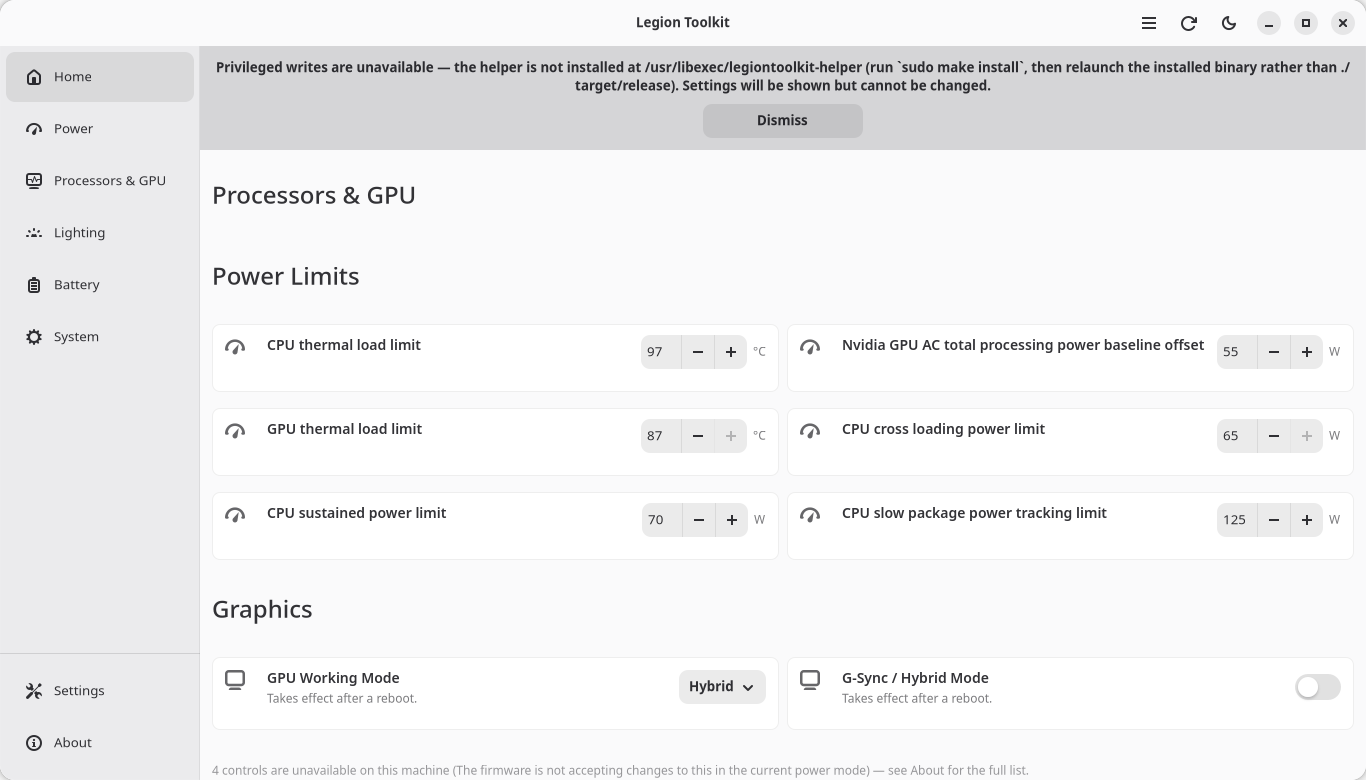
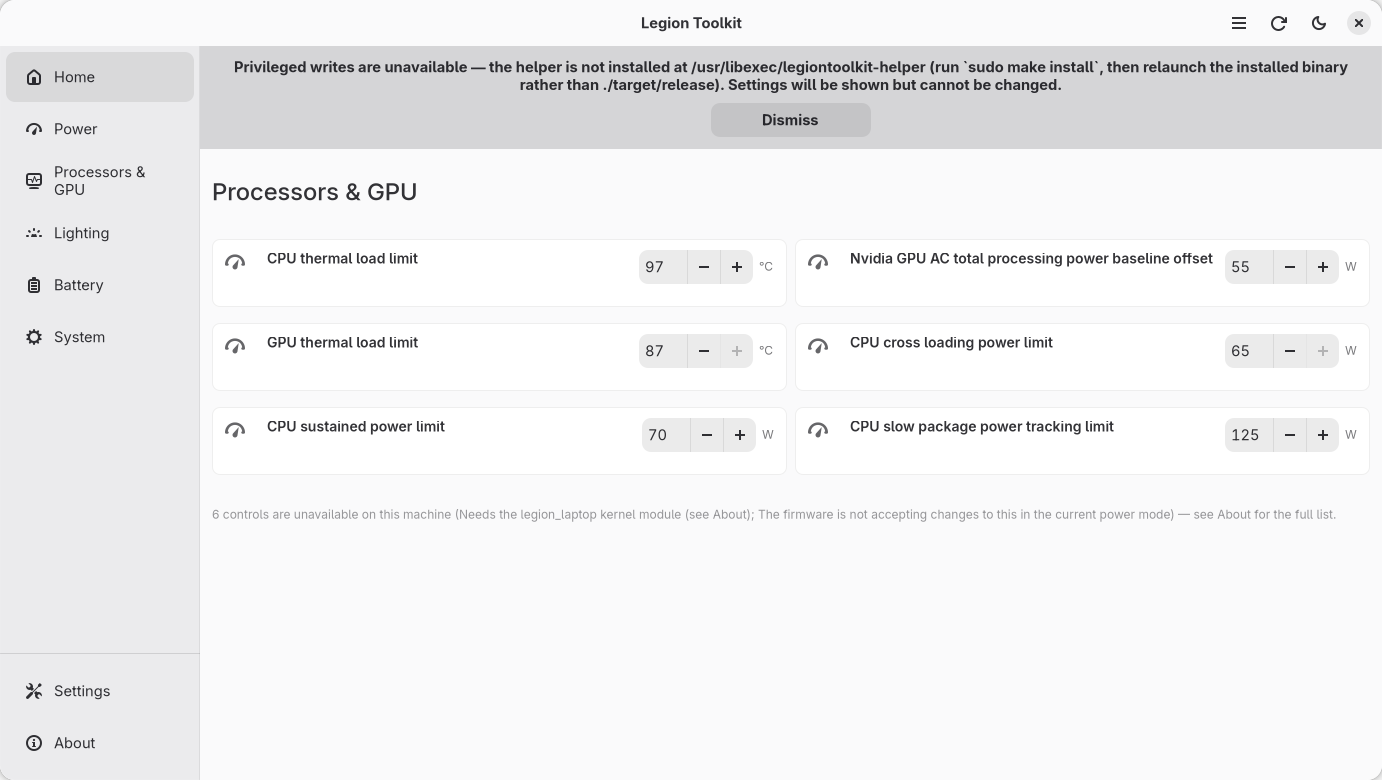
feat(lighting): animate the effect preview, and tidy the pages
Lighting: a timer now animates the keyboard while an effect is selected, so a
look can be seen before it is applied. The rainbow effects run a spectrum across
the board; the colour-carrying effects pulse their zone colour along the same
wave. It paints only while the page is on screen and the effect moves.

About: the affiliation note now follows the build note in the same line instead
of dangling below it.

Pages: a section title is drawn only when a page has more than one section, so
Processors & GPU no longer repeats itself with a lone 'Power Limits' heading.

Controls: the spin buttons and dropdowns get a fixed width, so a value gaining
a digit no longer shifts the card's layout.

Regenerate all screenshots; the Lighting one shows the rainbow wave.

diff --git a/src/pages/mod.rs b/src/pages/mod.rs
@@ -13,7 +13,7 @@
 //!   cards. We surface what sysfs actually reports instead of inventing
 //!   placeholders for the rest.
 
-use std::cell::RefCell;
+use std::cell::{Cell, RefCell};
 use std::rc::Rc;
 use std::sync::Arc;
 
@@ -201,16 +201,30 @@ impl CapabilityPage {
         let mut unavailable: Vec<Arc<Capability>> = Vec::new();
 
         if let Some(sections) = self.sections.clone() {
-            for (title, predicate) in sections {
+            // Work out which sections have anything before drawing any of
+            // them: a page with a single section needs no title, because its
+            // heading would only repeat the page title.
+            let prepared: Vec<(&'static str, Vec<Arc<Capability>>)> = sections
+                .iter()
+                .map(|(title, predicate)| {
+                    let caps: Vec<Arc<Capability>> = self
+                        .caps
+                        .borrow()
+                        .iter()
+                        .filter(|c| predicate(c))
+                        .cloned()
+                        .collect();
+                    (*title, caps)
+                })
+                .collect();
+            let non_empty = prepared
+                .iter()
+                .filter(|(_, caps)| caps.iter().any(|c| c.is_available()))
+                .count();
+
+            for (title, caps) in prepared {
                 let grid = self.section_grid();
                 let mut shown = 0i32;
-                let caps: Vec<Arc<Capability>> = self
-                    .caps
-                    .borrow()
-                    .iter()
-                    .filter(|c| predicate(c))
-                    .cloned()
-                    .collect();
                 for cap in caps {
                     if !cap.is_available() {
                         unavailable.push(cap);
@@ -223,9 +237,12 @@ impl CapabilityPage {
                     self.cards.borrow_mut().push(card);
                     shown += 1;
                 }
-                // Only title a section that has something in it.
+                // Only title a section that has something in it, and only when
+                // there is more than one such section.
                 if shown > 0 {
-                    self.page.heading(title);
+                    if non_empty >= 2 {
+                        self.page.heading(title);
+                    }
                     self.page.append(&grid);
                 }
             }
@@ -1082,22 +1099,15 @@ fn about_page_body(
         });
         page.append(&revealer);
 
+        // One line: the affiliation note follows the build note in the same
+        // paragraph rather than dangling on a line of its own.
         let note = Label::new(Some(
-            "Built on GTK 4 and libadwaita. Hardware access via LenovoLegionLinux and the Linux kernel.",
+            "Built on GTK 4 and libadwaita. Hardware access via LenovoLegionLinux and the Linux kernel. Not officially affiliated with Lenovo.",
         ));
         note.add_css_class("llt-card-note");
         note.set_wrap(true);
         note.set_margin_top(16);
         page.append(&note);
-
-        // The disclaimer, on its own line so it is not read as part of the
-        // sentence above.
-        let affiliation = Label::new(Some("Not officially affiliated with Lenovo."));
-        affiliation.add_css_class("llt-card-note");
-        affiliation.set_halign(Align::Start);
-        affiliation.set_wrap(true);
-        affiliation.set_margin_top(4);
-        page.append(&affiliation);
     })
 }
 
@@ -1619,6 +1629,13 @@ fn rgb_section() -> Option<GtkBox> {
     keyboard.set_valign(Align::Start);
 
     let rows = legiontoolkit::rgb::keyboard_rows();
+    // Widest row, in key units: used for the widget's size and to normalise each
+    // key's position for the effect preview.
+    let total_width: f64 = rows
+        .iter()
+        .map(|keys| keys.iter().map(|(_, w)| *w).sum::<f64>())
+        .fold(0.0, f64::max);
+
     let mut zone_keys: Vec<ZoneKey> = Vec::new();
     for (row, keys) in rows.iter().enumerate() {
         let mut x = 0.0;
@@ -1646,17 +1663,17 @@ fn rgb_section() -> Option<GtkBox> {
                     zone,
                     button,
                     provider,
+                    // Where the key sits, 0..1 across and down the board, so the
+                    // effect preview can run a wave over it.
+                    u: (x + width * KEY / 2.0) / (total_width * KEY),
+                    v: row as f64 / (rows.len().saturating_sub(1).max(1)) as f64,
                 });
             }
             x += width * KEY;
         }
     }
-    let width = rows
-        .iter()
-        .map(|keys| keys.iter().map(|(_, w)| *w).sum::<f64>())
-        .fold(0.0, f64::max);
     keyboard.set_size_request(
-        (width * KEY).round() as i32,
+        (total_width * KEY).round() as i32,
         (rows.len() as f64 * ROW_H).round() as i32,
     );
     let zone_keys = Rc::new(zone_keys);
@@ -1686,6 +1703,46 @@ fn rgb_section() -> Option<GtkBox> {
             }
         });
     }
+
+    // --- Live effect preview -------------------------------------------
+    // The reference animates the keyboard while an effect is selected, so it can
+    // be seen before it is applied. A timer advances a phase and repaints the
+    // keys: rainbow effects run a spectrum across the board, and the
+    // colour-carrying effects pulse their zone colour along a moving wave.
+    //
+    // It paints only while the page is on screen and the effect moves; a static
+    // look leaves the stored zone colours alone.
+    let phase = Rc::new(Cell::new(0.0f64));
+    let was_animating = Rc::new(Cell::new(false));
+    glib::timeout_add_local(std::time::Duration::from_millis(60), {
+        let state = Rc::clone(&state);
+        let zone_keys = Rc::clone(&zone_keys);
+        let phase = Rc::clone(&phase);
+        let was_animating = Rc::clone(&was_animating);
+        let keyboard = keyboard.clone();
+        move || {
+            if !keyboard.is_mapped() {
+                return glib::ControlFlow::Continue;
+            }
+            let (effect, off) = {
+                let state = state.borrow();
+                (state.effect, state.off)
+            };
+            let animating = !off && effect.is_animated();
+            if animating {
+                let now = phase.get();
+                let zones = state.borrow().zones;
+                paint_preview(&zone_keys, effect, &zones, now);
+                phase.set((now + 0.02).fract());
+            } else if was_animating.get() {
+                // Leaving an animated effect: put the stored colours back.
+                let zones = state.borrow().zones;
+                paint_zones(&zone_keys, &zones);
+            }
+            was_animating.set(animating);
+            glib::ControlFlow::Continue
+        }
+    });
 
     // The column beside the keyboard: what a colour targets, and a fast
     // select-all / clear.
@@ -1979,6 +2036,9 @@ struct ZoneKey {
     zone: usize,
     button: gtk4::Button,
     provider: gtk4::CssProvider,
+    /// Where the key sits, 0..1 across and down the board, for the preview.
+    u: f64,
+    v: f64,
 }
 
 /// Repaint every key from the zone colours.
@@ -1989,10 +2049,65 @@ fn paint_zones(keys: &[ZoneKey], zones: &[[u8; 3]; legiontoolkit::rgb::NUM_ZONES
     }
 }
 
+/// Repaint every key for an animated effect preview at `phase` (0..1).
+///
+/// The rainbow effects run a spectrum across the board — a wave left to right,
+/// or a spiral by adding the key's row. The colour-carrying effects keep their
+/// zone's colour and pulse it along the same wave, which is what those effects
+/// do on the hardware.
+fn paint_preview(
+    keys: &[ZoneKey],
+    effect: legiontoolkit::rgb::Effect,
+    zones: &[[u8; 3]; legiontoolkit::rgb::NUM_ZONES],
+    phase: f64,
+) {
+    use legiontoolkit::rgb::Effect;
+    for key in keys {
+        let rgb = match effect {
+            Effect::ScrewRainbow => hsv_to_rgb((key.u + key.v - phase).rem_euclid(1.0), 1.0, 1.0),
+            Effect::RainbowWave => hsv_to_rgb((key.u - phase).rem_euclid(1.0), 1.0, 1.0),
+            _ => {
+                // A travelling pulse: dark on the leading edge, bright behind it.
+                let wave = (key.u * 6.0 - phase * std::f64::consts::TAU * 2.0).sin() * 0.5 + 0.5;
+                scale_rgb(zones[key.zone], 0.35 + 0.65 * wave)
+            }
+        };
+        key.provider.load_from_string(&key_colour_css(rgb));
+    }
+}
+
+/// Scale a colour's brightness, keeping it inside 0..=255.
+fn scale_rgb(rgb: [u8; 3], factor: f64) -> [u8; 3] {
+    rgb.map(|c| (c as f64 * factor).round().clamp(0.0, 255.0) as u8)
+}
+
+/// HSV to RGB, `h` in turns (`0..1`), `s` and `v` in `0..1`.
+fn hsv_to_rgb(h: f64, s: f64, v: f64) -> [u8; 3] {
+    let h = h.rem_euclid(1.0) * 6.0;
+    let i = h.floor() as i64;
+    let f = h - h.floor();
+    let p = v * (1.0 - s);
+    let q = v * (1.0 - s * f);
+    let t = v * (1.0 - s * (1.0 - f));
+    let (r, g, b) = match i.rem_euclid(6) {
+        0 => (v, t, p),
+        1 => (q, v, p),
+        2 => (p, v, t),
+        3 => (p, q, v),
+        4 => (t, p, v),
+        _ => (v, p, q),
+    };
+    [
+        (r * 255.0).round() as u8,
+        (g * 255.0).round() as u8,
+        (b * 255.0).round() as u8,
+    ]
+}
+
 /// CSS that paints one keyboard key its zone's colour.
 fn key_colour_css(rgb: [u8; 3]) -> String {
     format!(
-        "button {{ background-color: #{:02x}{:02x}{:02x}; border-radius: 4px;          padding: 0; min-height: 0; }}",
+        "button {{ background-color: #{:02x}{:02x}{:02x}; border-radius: 4px; padding: 0; min-height: 0; }}",
         rgb[0], rgb[1], rgb[2]
     )
 }

diff --git a/src/design/feature_card.rs b/src/design/feature_card.rs
@@ -180,6 +180,8 @@ impl FeatureCard {
         let dd = DropDown::from_strings(&labels);
         dd.set_halign(Align::End);
         dd.set_valign(Align::Center);
+        // Fixed width: the selected label's length must not resize the card.
+        dd.set_size_request(200, -1);
         self.card.set_accessory(&dd);
         self.dropdown = Some((dd, values));
     }
@@ -193,6 +195,8 @@ impl FeatureCard {
         let spin = SpinButton::with_range(limits.min, limits.max, limits.step);
         spin.set_halign(Align::End);
         spin.set_valign(Align::Center);
+        // Fixed width: a value gaining a digit must not shift the card's layout.
+        spin.set_width_chars(4);
         self.spin = Some(spin.clone());
 
         // A bare number is not a value. Show the unit beside the control so

diff --git a/src/rgb.rs b/src/rgb.rs
@@ -122,6 +122,11 @@ impl Effect {
         )
     }
 
+    /// Whether the effect moves, so the on-screen preview should animate it.
+    pub fn is_animated(self) -> bool {
+        !matches!(self, Self::Static)
+    }
+
     /// Whether the effect has a direction.
     pub fn uses_direction(self) -> bool {
         matches!(
